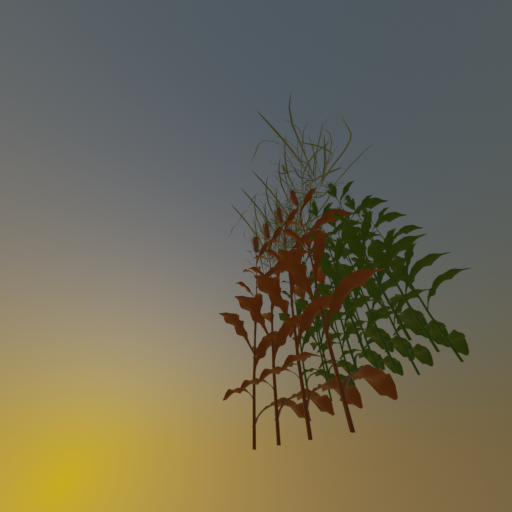
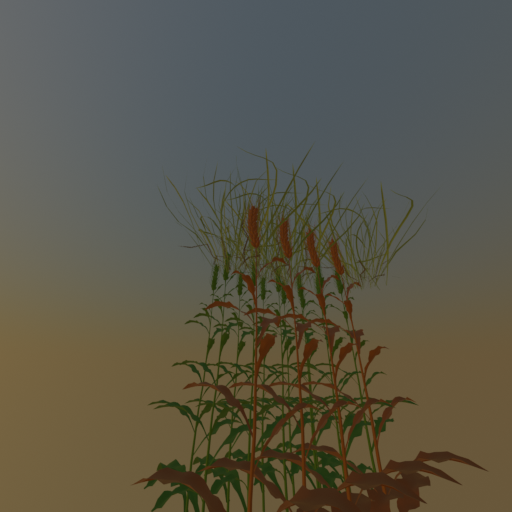
tests: added unit tests for the update camera function

diff --git a/tests/controllers/test_camera_controller.py b/tests/controllers/test_camera_controller.py
@@ -8,37 +8,46 @@ class CameraControllerTest(unittest.TestCase):
     def setUp(self):
         # Set up test environment
         self.camera_name = "Test Camera"
-        self.camera_location=(7.358891487121582, -6.925790786743164, 4.958309173583984)
-        self.camera_rotation=(1.1093189716339111, 0.0, 0.8149281740188599)
+        self.camera_location = (7.358891487121582, -6.925790786743164, 4.958309173583984)
+        self.camera_rotation = (1.1093189716339111, 0.0, 0.8149281740188599)
         self.collection = "Test Collection"
-        self.camera_controller = CameraController()
+        self.camera_controller = CameraController(self.camera_name, self.camera_location, self.camera_rotation, self.collection)
+        self.updated_rotation = (5, 10, 15)
 
     def test_setup_camera_collection_name(self):
         # Create camera controller instance
-        self.camera_controller.setup_camera(self.camera_name, self.camera_location, self.camera_rotation, self.collection)
+        self.camera_controller.setup_camera()
         # Checks that the collection is named correctly
         # 0th index is the existing collection in the file called "Collection"
         # 1st index should be the newly created "Test Collection"
         self.assertTrue(bpy.data.collections[1].name == self.collection)
 
     def test_setup_camera_collection_scene(self):
-        collection = self.camera_controller.setup_camera(self.camera_name, self.camera_location, self.camera_rotation, self.collection)
+        collection = self.camera_controller.setup_camera()
         for collection in bpy.data.collections:
             if collection.name == self.collection:
                 # Checks that the colelction exists in the scene
                 self.assertTrue(collection.name == self.collection)
 
     def test_setup_camera_collection_location(self):
-        self.camera_controller.setup_camera(self.camera_name, self.camera_location, self.camera_rotation, self.collection)
+        self.camera_controller.setup_camera()
         camera_loc = bpy.data.objects[self.camera_name].location
         x, y, z = camera_loc
         self.assertEqual(self.camera_location, (x, y, z))
 
     def test_setup_camera_collection_rotation(self):
-        self.camera_controller.setup_camera(self.camera_name, self.camera_location, self.camera_rotation, self.collection)
+        self.camera_controller.setup_camera()
         camera_rot = bpy.data.objects[self.camera_name].rotation_euler
         # only getting first 3 values - they are relevant to rotation, after that it is the perspective
         self.assertEqual(self.camera_rotation, camera_rot[0:3])
+
+    def test_update_camera(self):
+        self.camera_controller.update_camera(angle_rotation = self.updated_rotation)
+        camera_rot = bpy.data.objects[self.camera_name].rotation_euler
+        # it is very difficult to calculate the rotation of the camera
+        # so this checks that the camera position is not the same as the initial rotation
+        self.assertTrue(camera_rot != self.camera_rotation) # updated rotation is different to initial rotation
+
 
 
 if __name__ == "__main__":

diff --git a/src/controllers/camera_controller.py b/src/controllers/camera_controller.py
@@ -8,7 +8,7 @@ class CameraController:
         self.camera_location = camera_location
         self.camera_rotation = camera_rotation
         self.collection_name = collection_name
-        self.camera_name = "camera_one"
+        self.camera_name = camera_name
         self.camera = bpy.ops.object.camera_add(enter_editmode=False, align="VIEW",
                                   location=self.camera_location, rotation=self.camera_rotation)
     """
@@ -29,8 +29,7 @@ class CameraController:
 
     def update_camera(self, angle_rotation = (0, 0, 0), distance = 10.0):
         # update camera rotation and distance
-        scene = bpy.context.scene
-        camera_direction = scene.camera.location - mathutils.Vector(angle_rotation)
+        camera_direction = bpy.data.objects[self.camera_name].location - mathutils.Vector(angle_rotation)
         rotation = camera_direction.to_track_quat("Z", "Y")
-        scene.camera.rotation_euler = rotation.to_euler()
-        scene.camera.location = rotation @ mathutils.Vector((0, 0, distance))
+        bpy.data.objects[self.camera_name].rotation_euler = rotation.to_euler()
+        bpy.data.objects[self.camera_name].location = rotation @ mathutils.Vector((0, 0, distance))

diff --git a/src/renderers/scene_renderer.py b/src/renderers/scene_renderer.py
@@ -24,7 +24,7 @@ class SceneRenderer:
         self.lightcon.add_light()
         self.lightcon.add_sky()
         self.cameracon.setup_camera()
-        self.cameracon.update_camera(distance = 10, crop_location=(2,5,10))
+        self.cameracon.update_camera(distance = 5, angle_rotation=(100,150,100))
 
 
         bpy.context.scene.render.resolution_x = self.render_resolution_x
